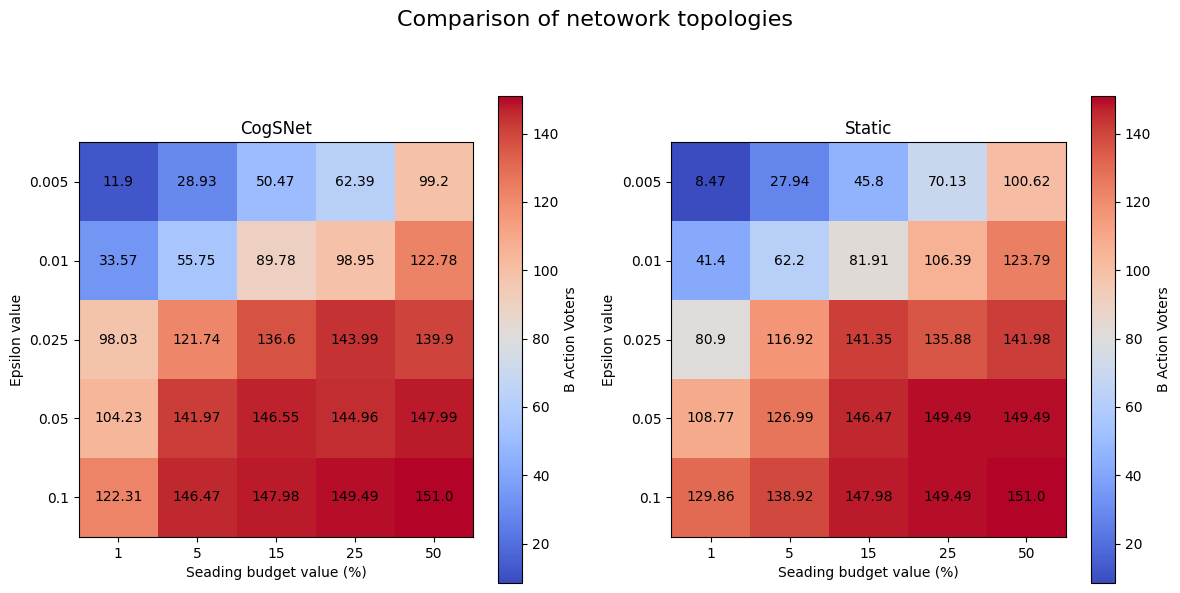
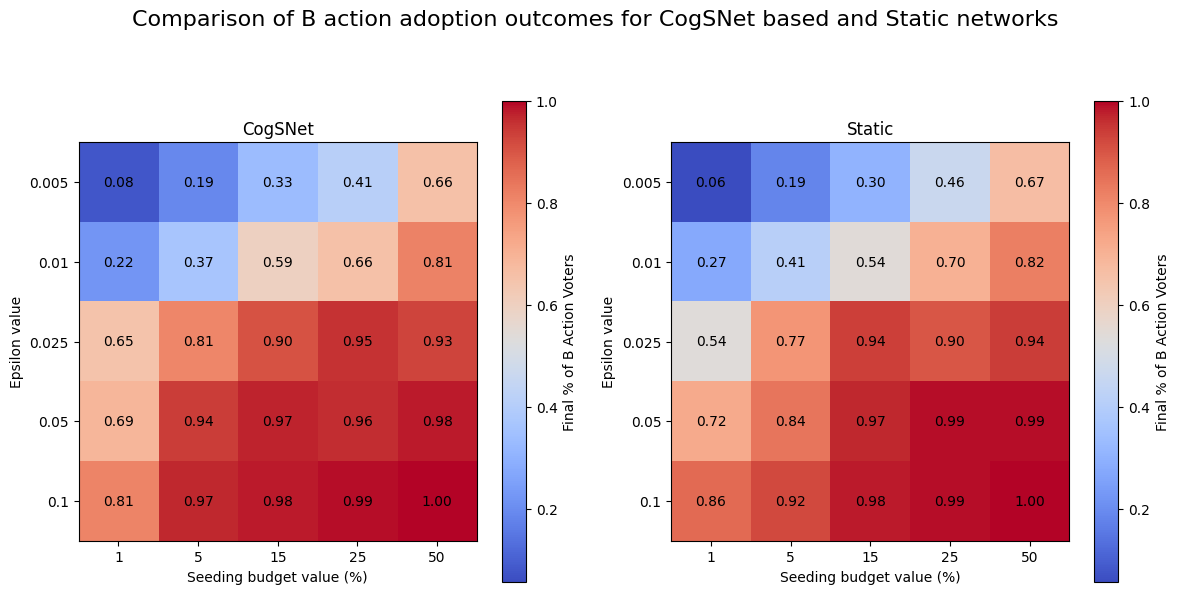
Normalization of values on plot for TNEM+CogSNet

diff --git a/utils/functions.py b/utils/functions.py
@@ -50,11 +50,17 @@ def get_metrics(experiment_results):
     return epochs, start_A, start_B, final_A, final_B
 
 
-def visualize_results_as_heatmap(results_df, index, columns, values, title, colorbar_label=None, x_label=None,
-                                 y_label=None):
+def visualize_results_as_heatmap(results_df, index, columns, values, title, normalize=True, colorbar_label=None,
+                                 x_label=None, y_label=None):
     methods = results_df['method'].unique()
     fig, axes = plt.subplots(1, len(methods), figsize=(12, 6))
     fig.suptitle(title, fontsize=16)
+
+    if normalize:
+        agents_sum = sum([results_df[c][0] for c in results_df.columns if c.startswith('start_')])
+        for c in results_df.columns:
+            if c.startswith('start_') or c.startswith('final_'):
+                results_df[c] = results_df[c]/agents_sum
 
     vmin = results_df[values].min()
     vmax = results_df[values].max()
@@ -87,7 +93,7 @@ def visualize_results_as_heatmap(results_df, index, columns, values, title, colo
 
         for j in range(len(y_labels)):
             for k in range(len(x_labels)):
-                ax.text(k, j, heatmap_data[j, k], ha='center', va='center', color='black')
+                ax.text(k, j, "{:.2f}".format(heatmap_data[j, k]), ha='center', va='center', color='black')
 
         # Set labels for the x and y axes
         x_label = x_label if x_label else columns
